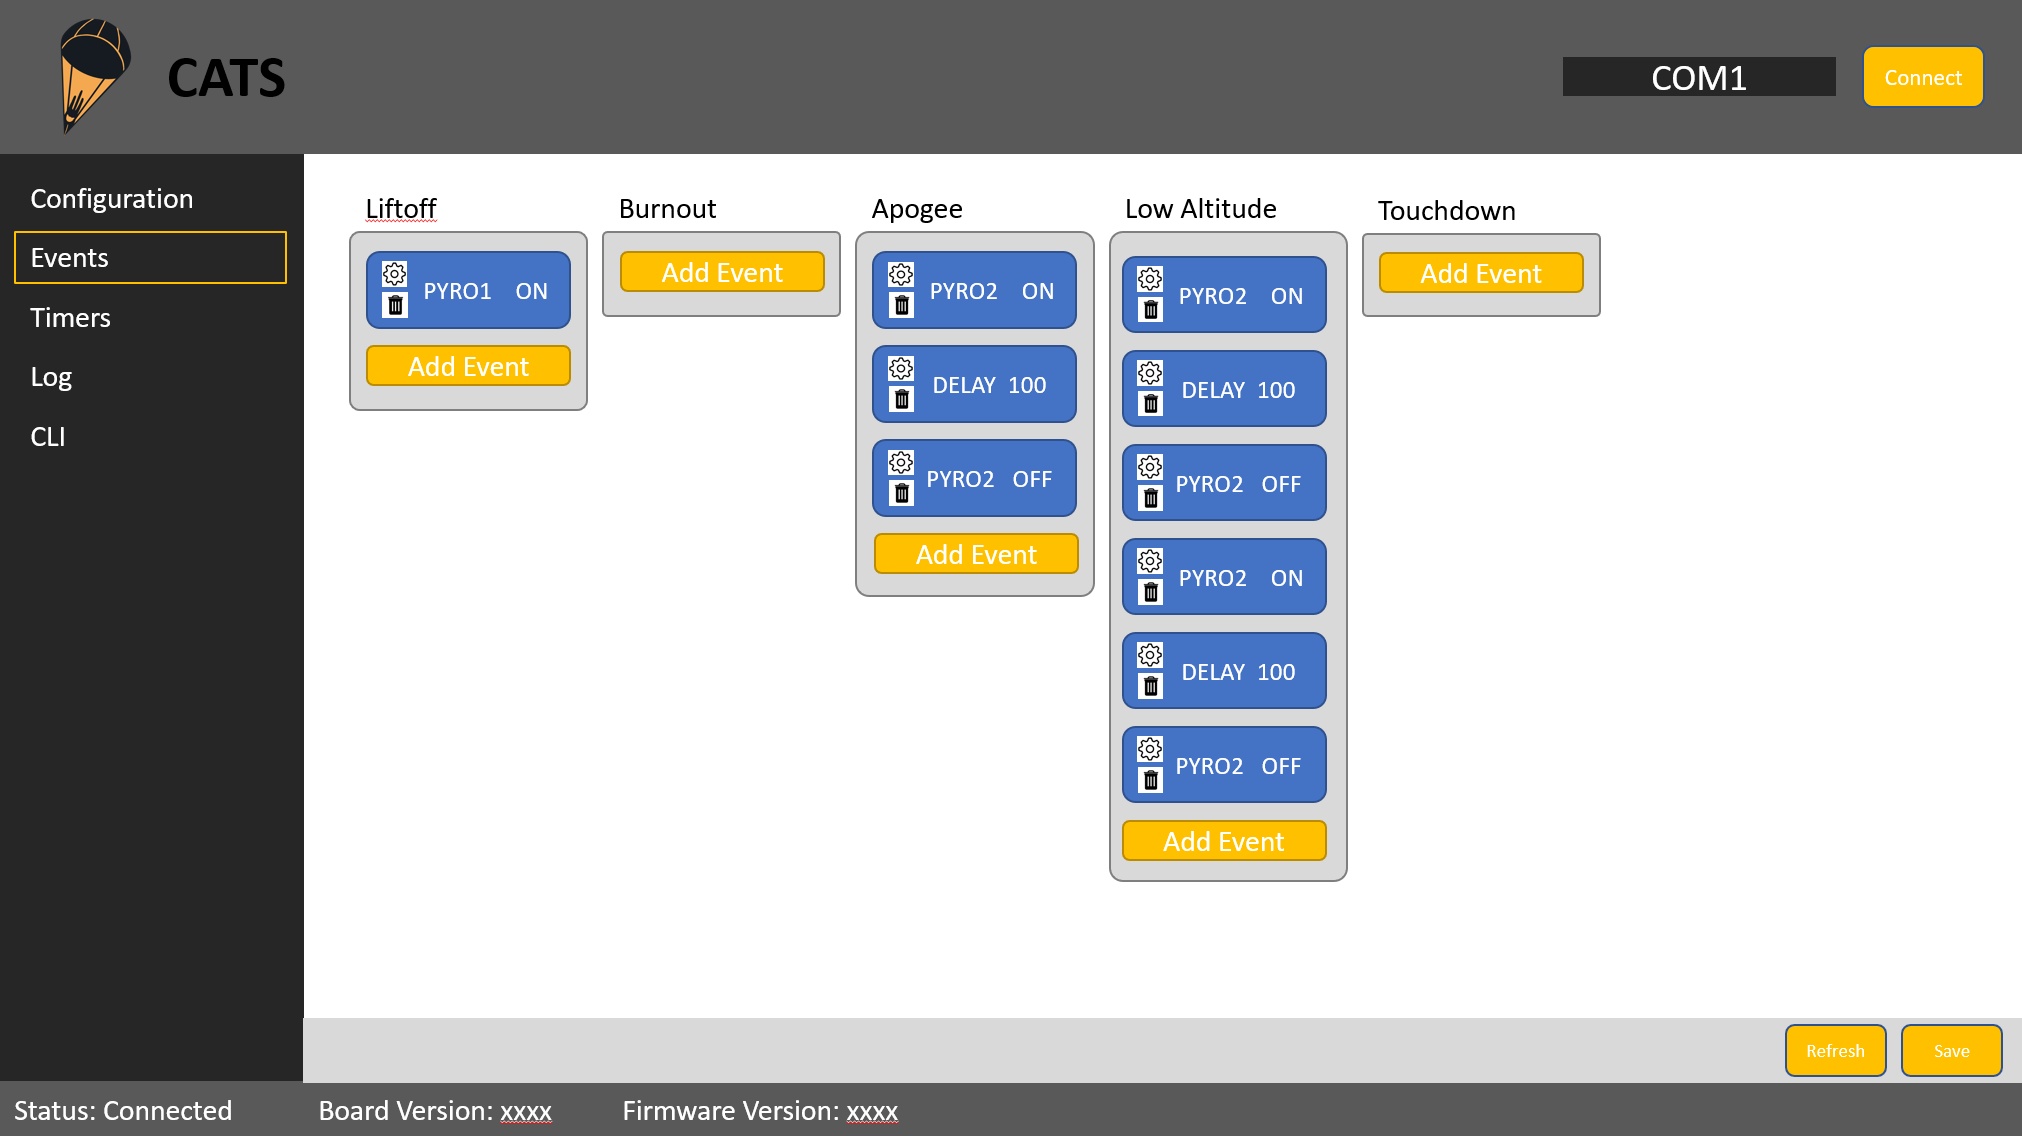
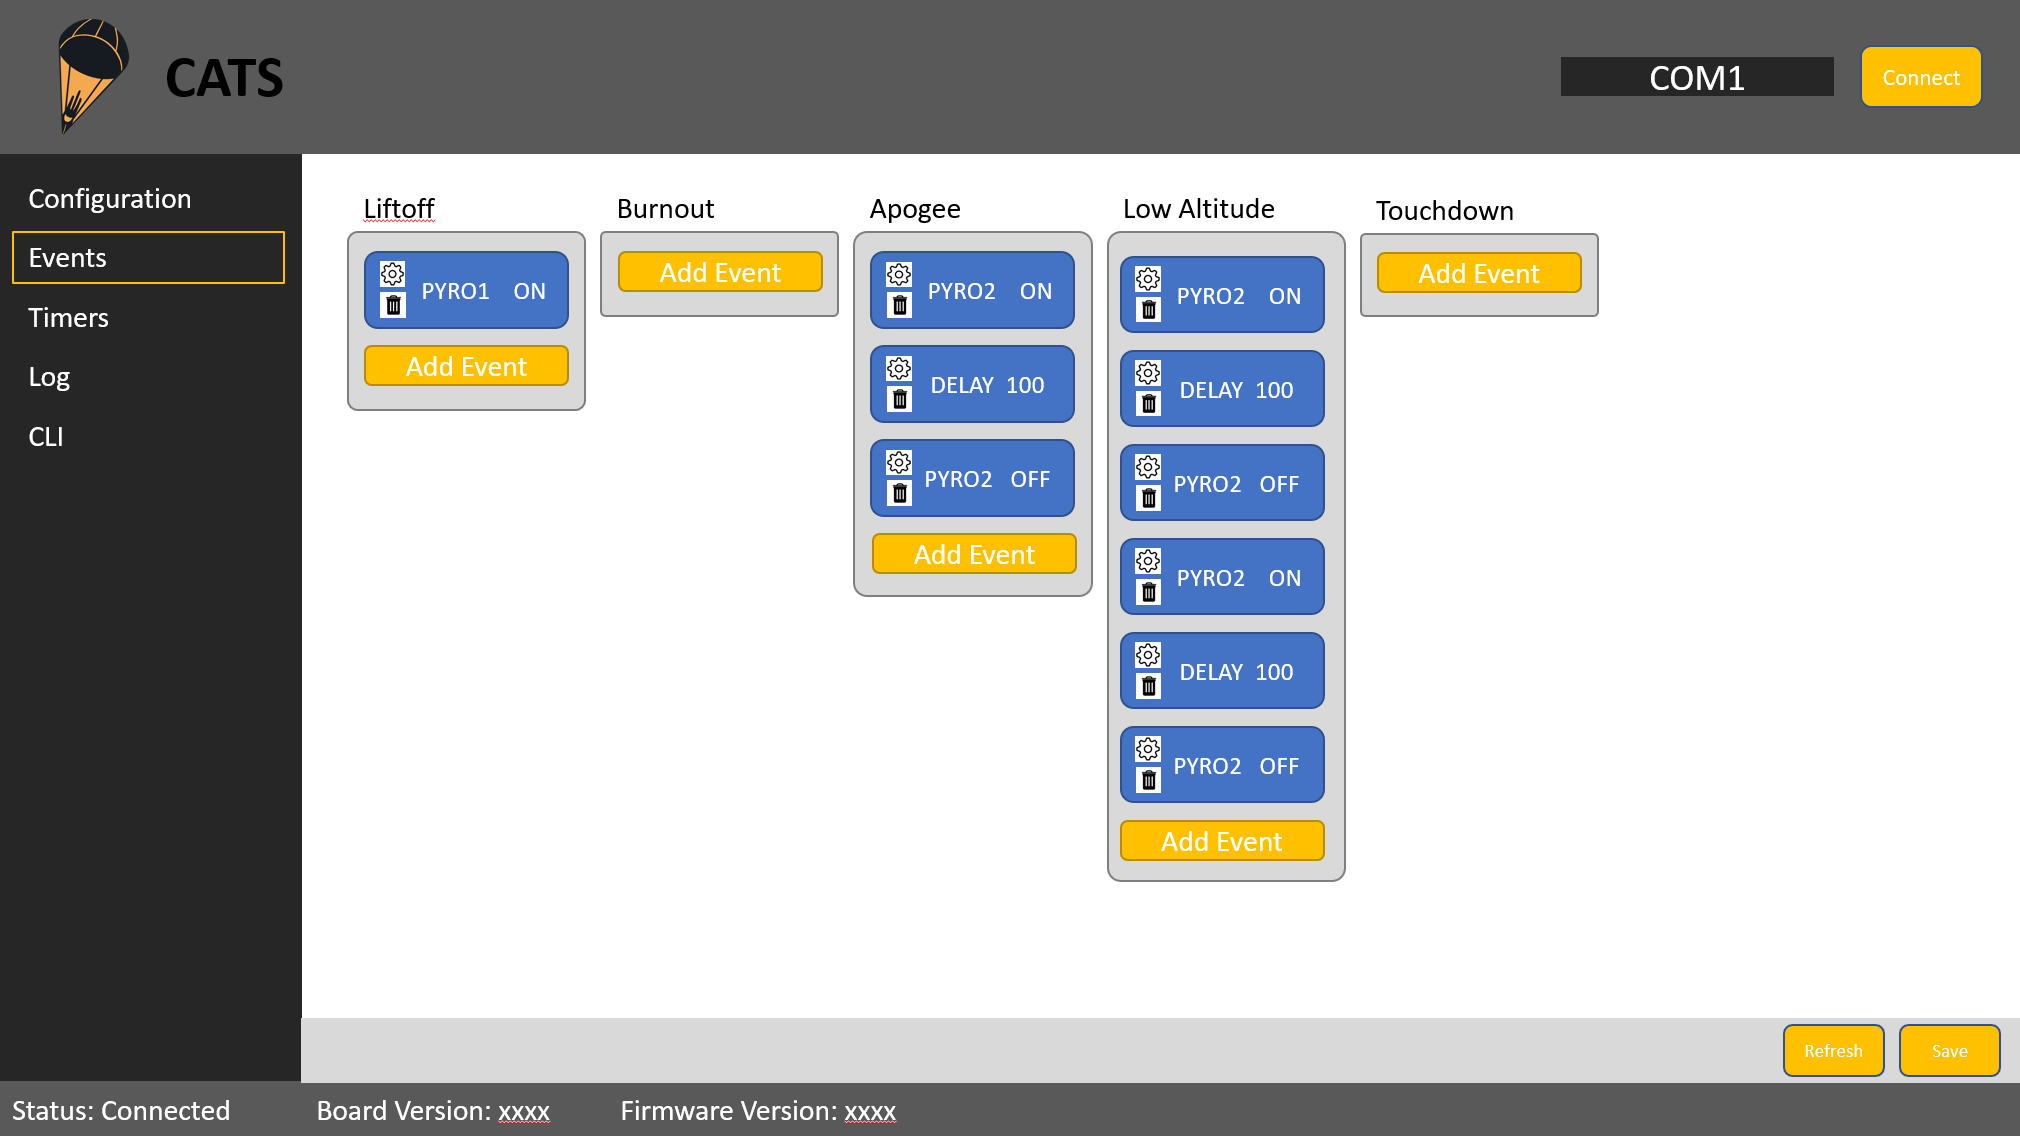
changes

diff --git a/src/styles/components/_header.scss b/src/styles/components/_header.scss
@@ -1,5 +1,5 @@
 header {
-  background-color: var(--color-primary-700);
+  background-color: var(--color-primary-1200);
   display: flex;
   justify-content: space-between;
   left: 0;
@@ -43,7 +43,7 @@ header {
 .header-decoration {
   background: linear-gradient(
     0deg,
-    rgba(254, 159, 51, 0.94) 10%,
+    rgba(244, 168, 80, 0.94) 10%,
     #f4a850 50%,
     rgba(255, 190, 49, 0.94) 90%
   );

diff --git a/src/styles/components/_footer.scss b/src/styles/components/_footer.scss
@@ -1,7 +1,7 @@
 footer {
   --footer-decoration-height: 2.5rem;
   align-items: center;
-  background-color: var(--color-primary-700);
+  background-color: var(--color-primary-1200);
   color: var(--color-neutral-400);
   display: flex;
   flex-direction: column;

diff --git a/src/styles/_variables.scss b/src/styles/_variables.scss
@@ -10,7 +10,8 @@ $breakpoint-lg: 1024px;
   --header-decoration-height: 2.5rem;
 
   --wrap-size: 1rem;
-
+  
+  --color-primary-1200: #161b20;
   --color-primary-700: #00142f;
   --color-neutral-900: #2e2e2e;
   --color-neutral-800: #474747;
